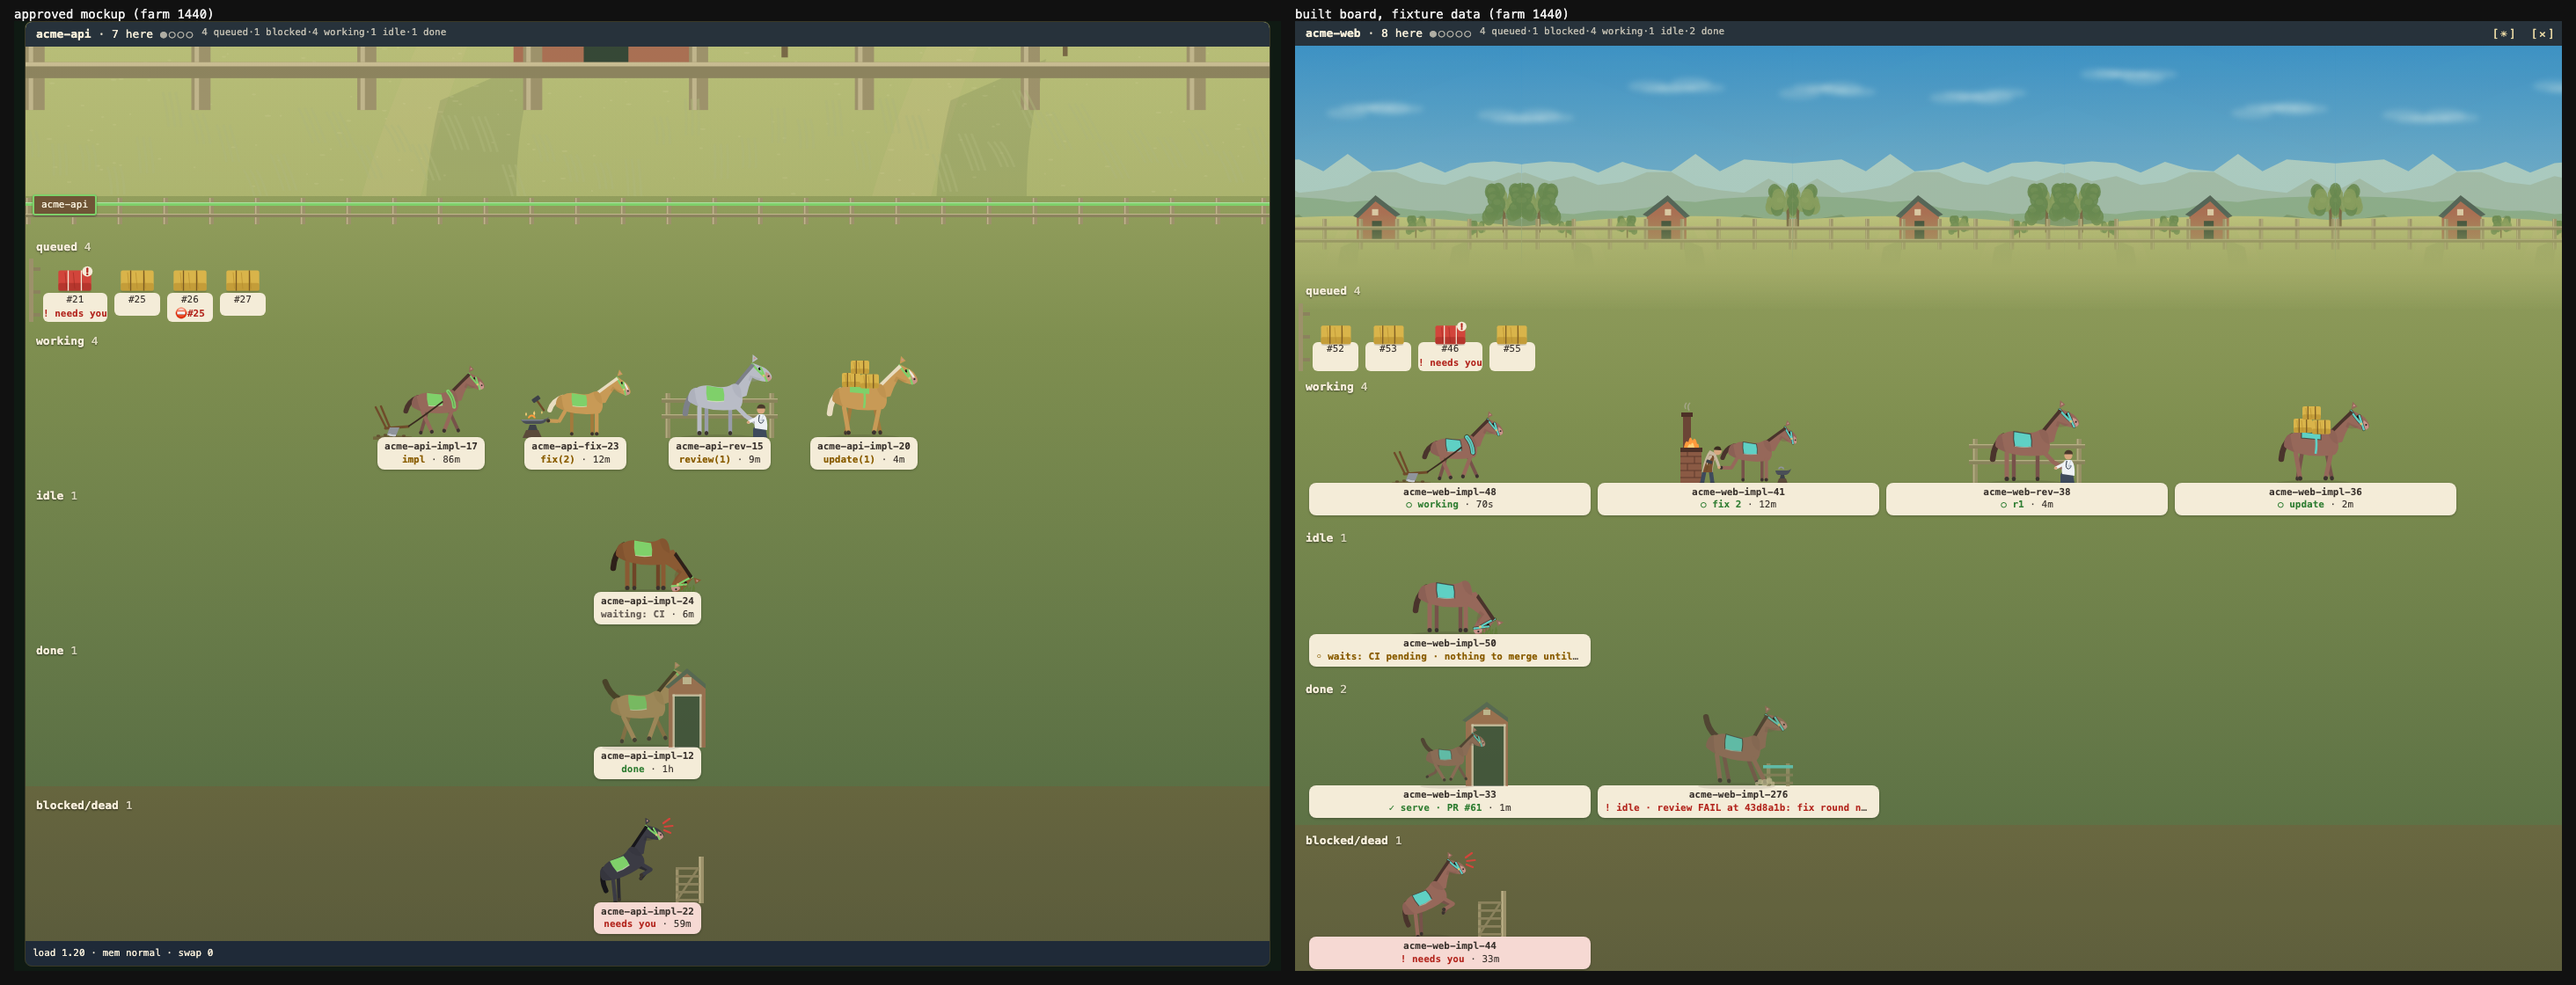
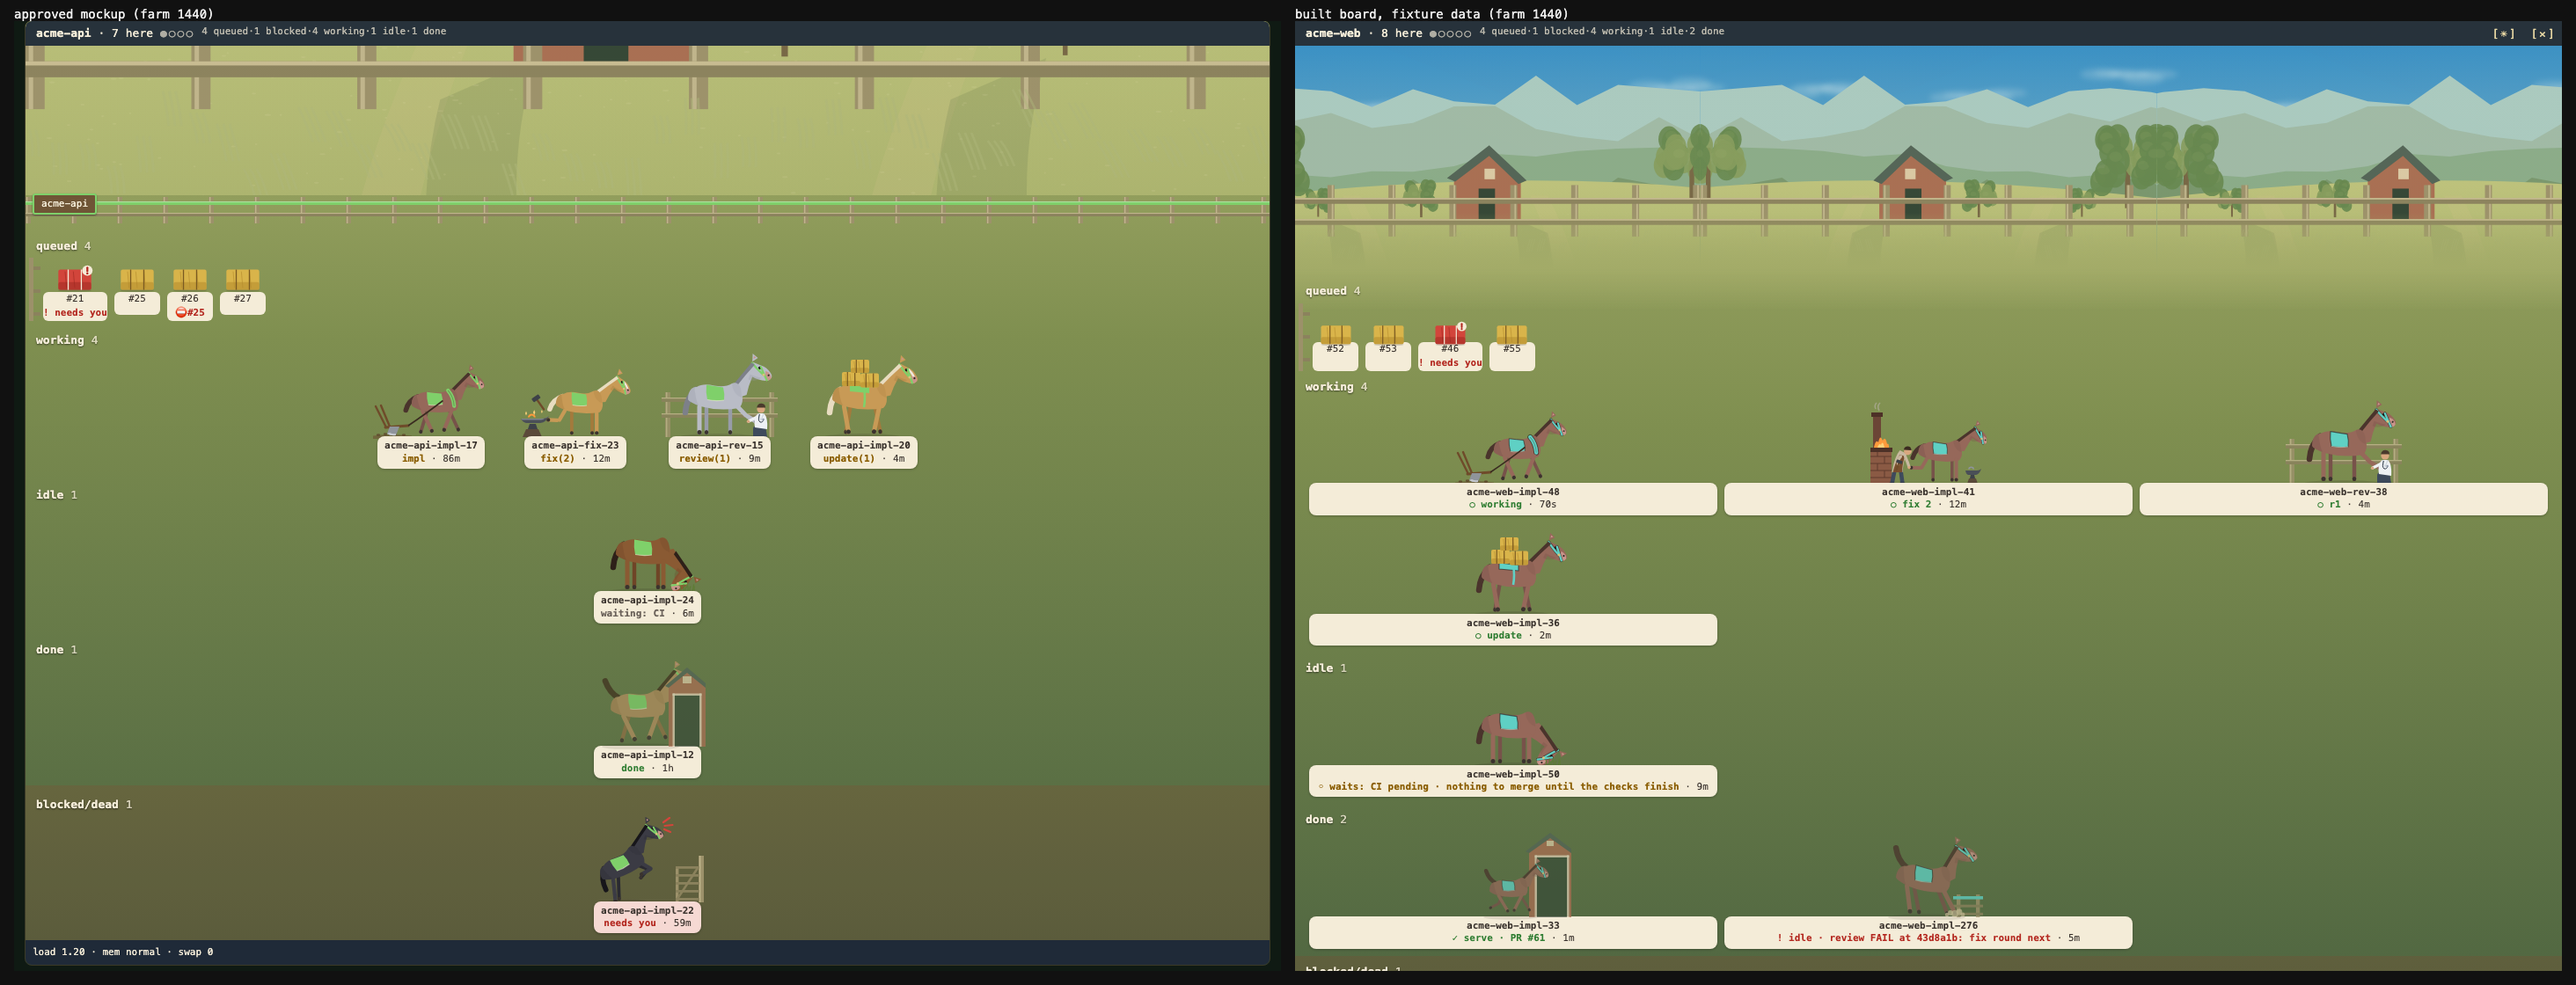
herd: cards as wide as the page's widest line (320–520 px) on wide screens; farm band crops only the empty sky, as the 390 mockup; hats in turn (#292)

diff --git a/assets/herd.js b/assets/herd.js
@@ -188,15 +188,14 @@ const queued = q => `<button type=button class="hqh${q.needs ? ' n' : ''}" data-
 // #130: a fleet's `needs` (its needs-human issues): their horses wear a red `!` in the blocked band, an issue
 // with no lane waits at the gate; a tap opens its needs-you card.
 // #292: lanes of merged or closed issues (`gone`) aren't drawn (the Lanes tab and `clean` have them); each lane takes the next look
-// not on the page yet whose hat differs from the previous lane's (from its name's hash).
+// not on the page yet (from its name's hash), the hats taken in turn (toque, bandana, cap).
 function nh(f) {
   const n = f.needs || [], L = T.looks || [], used = new Set(), hat = k => ['--ht', '--hb', '--hk'].map(x => L[k][x]).join();
-  let prev = null;
-  const lanes = f.lanes.filter(l => !l.gone).map(l => {
+  const hats = [...new Set(L.map((_, k) => hat(k)))];
+  const lanes = f.lanes.filter(l => !l.gone).map((l, i) => {
     let k = hash(l.name) % (L.length || 1);
-    for (let t = 0; L.length && t < L.length && (used.has(k) || hat(k) === prev); t++) k = (k + 1) % L.length;
+    for (let t = 0; L.length && t < L.length && (used.has(k) || hat(k) !== hats[i % hats.length]); t++) k = (k + 1) % L.length;
     used.add(k);
-    if (L.length) prev = hat(k);
     l = Object.assign({}, l, { look: L.length ? k : null });
     return n.includes(l.issue) ? Object.assign(l, { needs: true, state: 'blocked', act: 'blocked', tone: 'r', shown: 'needs you' }) : l;
   });
@@ -251,6 +250,8 @@ function patch(hb, lanes, queue) {
     at = b;
   }
   drop.forEach(b => b.remove());
+  // #292: ≥ 900 px every card is as wide as the page's widest line (320–520 px), so the columns line up.
+  hb.style.setProperty('--cw', Math.min(520, Math.max(320, ...[...hb.querySelectorAll('.hl>*')].map(x => x.scrollWidth + 20))) + 'px');
   const e = hb.querySelector(':scope > .empty');
   if (at) { if (e) e.remove(); } else if (!e) hb.append(tpl(`<p class=empty>no ${w('horses')} here</p>`));
 }
@@ -258,12 +259,15 @@ function patch(hb, lanes, queue) {
 // #239/#292: the backdrop fills its band edge to edge at the band's height (`--ar`), top-anchored and never cropped: an odd
 // number of tiles (slice: only the outer tiles' spare sides go) centred on this page's own, all at one tint. A theme's
 // `scene.line` puts every fleet's station in turn; farm's ranch is mirrored every other tile so the edges meet (the moon
-// only in the middle). Rebuilt when the count changes.
+// only in the middle), its empty sky above the hills (y < Y0) left to the band's gradient and clouds, as the 390 mockup (#58's 22svh still fits).
+// Rebuilt when the count changes.
+const Y0 = 130;
 function tiles(p) {
   const r = p.querySelector('.hr'), v = RAW.match(/viewBox="0 0 ([\d.]+) ([\d.]+)"/), [vw, vh] = v ? [+v[1], +v[2]] : [390, 320];
-  r.style.setProperty('--ar', f1(vh / vw * 1000) / 1000);
+  const y0 = v ? 0 : Y0, h = vh - y0;
+  r.style.setProperty('--ar', f1(h / vw * 1000) / 1000);
   if (!r.clientWidth || !r.clientHeight) return;
-  const n = 2 * Math.ceil((r.clientWidth * vh / vw / r.clientHeight - 1) / 2) + 1, mid = (n - 1) / 2;
+  const n = 2 * Math.ceil((r.clientWidth * h / vw / r.clientHeight - 1) / 2) + 1, mid = (n - 1) / 2;
   if (p._n === n) return;
   p._n = n;
   const fs = data?.fleets || [], i = fs.findIndex(f => f.name === p._key), body = (v ? RAW : scene()).replace(/^[\s\S]*?<svg[^>]*>|<\/svg>\s*$/g, '');
@@ -274,7 +278,7 @@ function tiles(p) {
       (v || k % 2 === 0 ? body : `<g transform="matrix(-1 0 0 1 ${vw} 0)">${body}</g>`) + '</svg>';
   }
   r.querySelector('.rs')?.remove();
-  r.querySelector('.hc').insertAdjacentHTML('afterend', `<svg class=rs viewBox="${-mid * vw} 0 ${n * vw} ${vh}" preserveAspectRatio="xMidYMin slice"${v ? ' shape-rendering=crispEdges' : ''} aria-hidden=true>${s}</svg>`);
+  r.querySelector('.hc').insertAdjacentHTML('afterend', `<svg class=rs viewBox="${-mid * vw} ${y0} ${n * vw} ${h}" preserveAspectRatio="xMidYMin slice"${v ? ' shape-rendering=crispEdges' : ''} aria-hidden=true>${s}</svg>`);
   p._trees = [...r.querySelectorAll('.cn')].map(g => [g, +g.dataset.a, +g.dataset.l]);
   p._cel = [...r.querySelectorAll('.cel')];
   p._grass = [...r.querySelectorAll('.gt')].map(g => [g, +g.dataset.x, +g.dataset.y]);

diff --git a/assets/herd.css b/assets/herd.css
@@ -104,10 +104,10 @@
 .hqh.n use{animation:var(--flutter,none);transform-box:view-box;transform-origin:50% 0}
 @keyframes kflut{from{rotate:-3deg}to{rotate:3deg}}
 @media (prefers-reduced-motion:reduce){#herd.heat,.heat-held .kglow,.hqh.n use{animation:none}}
-/* #292 wide screens: the cards are a grid of equal columns from the rail's left edge, wide enough for their reasons
-   (still ellipsised past it, the whole line in `title`); the bands sit closer. */
+/* #292 wide screens: the cards are a grid of equal columns from the rail's left edge, as wide as the page's widest line
+   (`--cw`, herd.js patch(); ellipsised past 520 px, the whole line in `title`); the bands sit closer. */
 @media (min-width:900px){
-  .field{display:grid;grid-template-columns:repeat(auto-fill,320px);justify-content:start;padding-left:calc(2 * var(--s1) + var(--s2))}
-  .hh{width:320px}.hl{align-self:stretch;max-width:none}
+  .field{display:grid;grid-template-columns:repeat(auto-fill,var(--cw,320px));justify-content:start;padding-left:calc(2 * var(--s1) + var(--s2))}
+  .hh{width:var(--cw,320px)}.hl{align-self:stretch;max-width:none}.hl>*{width:max-content;max-width:100%;align-self:center}
   .band h4{padding-top:var(--s2)}
 }
